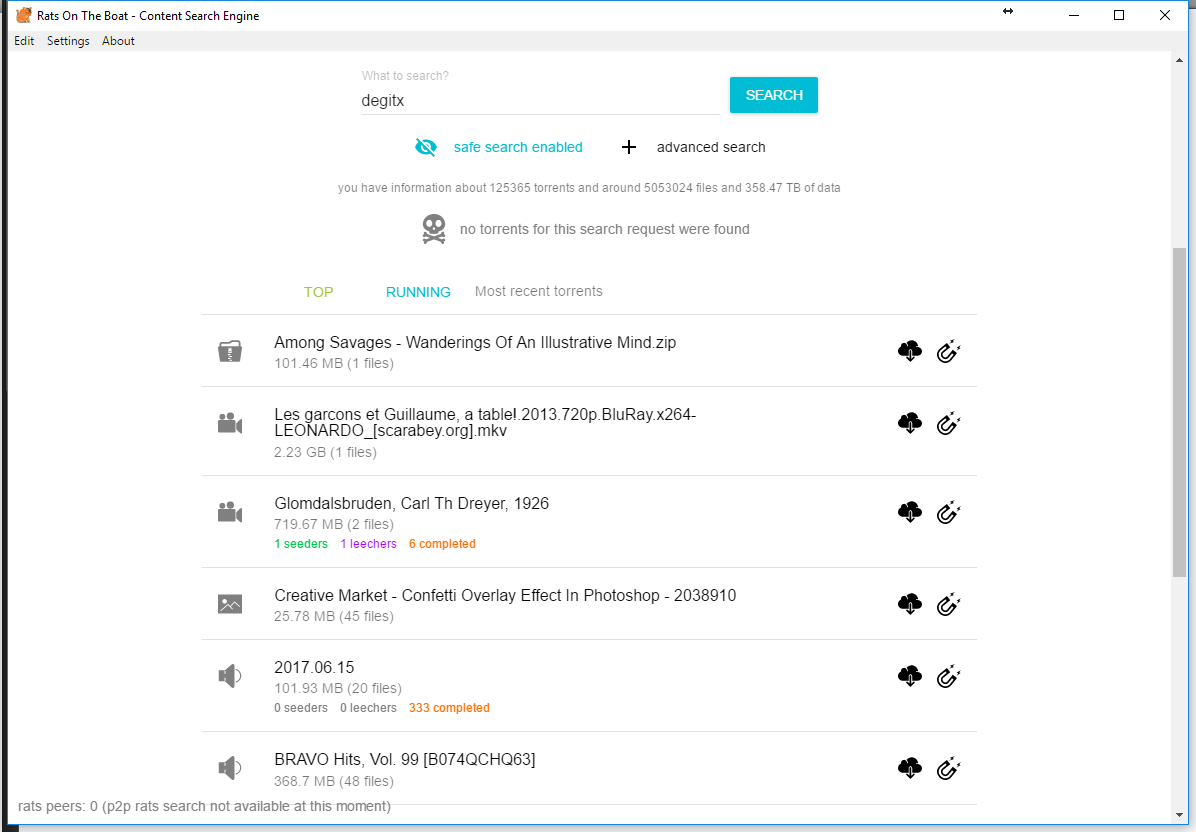
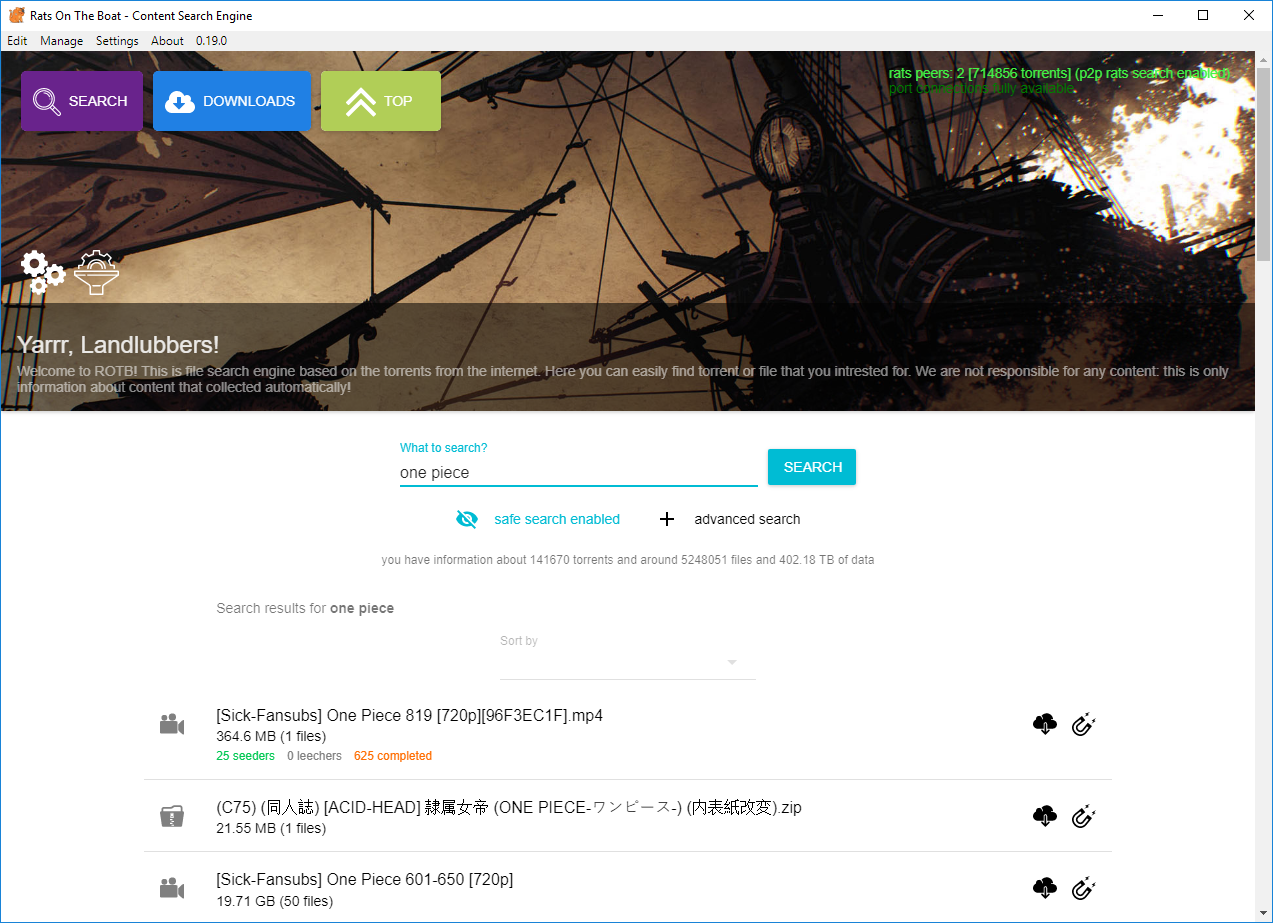
docs(imgs): updated screenshots on usage manual

diff --git a/docs/USAGE.md b/docs/USAGE.md
@@ -15,7 +15,7 @@ In the case when the collection of torrents does not occur, or is very slow (1-2
 
 ### Port configuration
 
-[![Settings](img/settings.png)](https://github.com/DEgITx/rats-search)
+[![Settings](img/settings_ports.png)](https://github.com/DEgITx/rats-search)
 
 For correct operation, it is necessary that ports 4445 and 4446 (or others specified in the settings) are opened. Both types of ports (UDP and TCP) must be opened. On the router, the ports must necessarily be thrown through NAT (if enabled). In the case when router supports UPnP ports will be forwarded automatically. 
 
@@ -27,7 +27,7 @@ Over time, your database of torrents will naturally grow up, and you can search 
 
 ### Distributed search
 
-In the case of the other ROTB clients found, there will be indicator at the bottom
+In the case of the other ROTB clients found, there will be indicator at the top
 
 [![A lot of torrents](img/peer.png)](https://github.com/DEgITx/rats-search)
 
@@ -39,15 +39,15 @@ The results of search of other participants are marked with a separate color.
 
 ### Torrent scanner settings
 
-[![Settings](img/settings.png)](https://github.com/DEgITx/rats-search)
+[![Settings](img/settings_limits.png)](https://github.com/DEgITx/rats-search)
 
 In the settings there are 3 parameters responsible for configuring the search for torrents in the network, each of them affects the application load, the rate of collection of torrents, the generation of traffic, as well as the total load for equipping the intermediate nodes of the network (router, etc.)
 
 Recommended values:
 * Maximum fast search / high load:
   * Scanner walk speed: 5
-  * Nodes usage: 0 (отключен = максимальное использование)
-  * Reduce netowork packages: 0 (отключено = неограниченно)
+  * Nodes usage: 0 (disabled = max usage)
+  * Reduce netowork packages: 0 (disabled = unlimited)
 * Average search speed / average load:
   * Scanner walk speed: 15
   * Nodes usage: 100

diff --git a/docs/USAGE.RU.md b/docs/USAGE.RU.md
@@ -15,7 +15,7 @@
 
 ### Настройка портов
 
-[![Settings](img/settings.png)](https://github.com/DEgITx/rats-search)
+[![Settings](img/settings_ports.png)](https://github.com/DEgITx/rats-search)
 
 Для корректной работы, необходимо чтобы были открыты порты 4445 и 4446 (или другие указанные в настройках). Должны быть открыты оба типа порта (UDP и TCP). На роутере порты обязательно должны быть проброшены через NAT (если таковой включен). В случае если ваш роутер поддерживает UPnP порты будут проброшены автоматически и, впринципе, делать ничего не нужно.
 
@@ -27,7 +27,7 @@
 
 ### Распределенный поиск
 
-В случае найденных других клиентов ROTB о чем сигнализирует индикатор в нижней части
+В случае найденных других клиентов ROTB о чем сигнализирует индикатор в верхней части
 
 [![A lot of torrents](img/peer.png)](https://github.com/DEgITx/rats-search)
 
@@ -39,7 +39,7 @@
 
 ### Настройка сканнера торрентов
 
-[![Settings](img/settings.png)](https://github.com/DEgITx/rats-search)
+[![Settings](img/settings_limits.png)](https://github.com/DEgITx/rats-search)
 
 В настройках есть 3 параметра отвечающих за настройку поиска торрентов в сети, каждый из них влияет на нагрузку приложения, скорость сбора торрентов, генерацию траффика а так же общую нагрузку на оборудование промежуточных узлов сети (роутера и т.п.)
 
